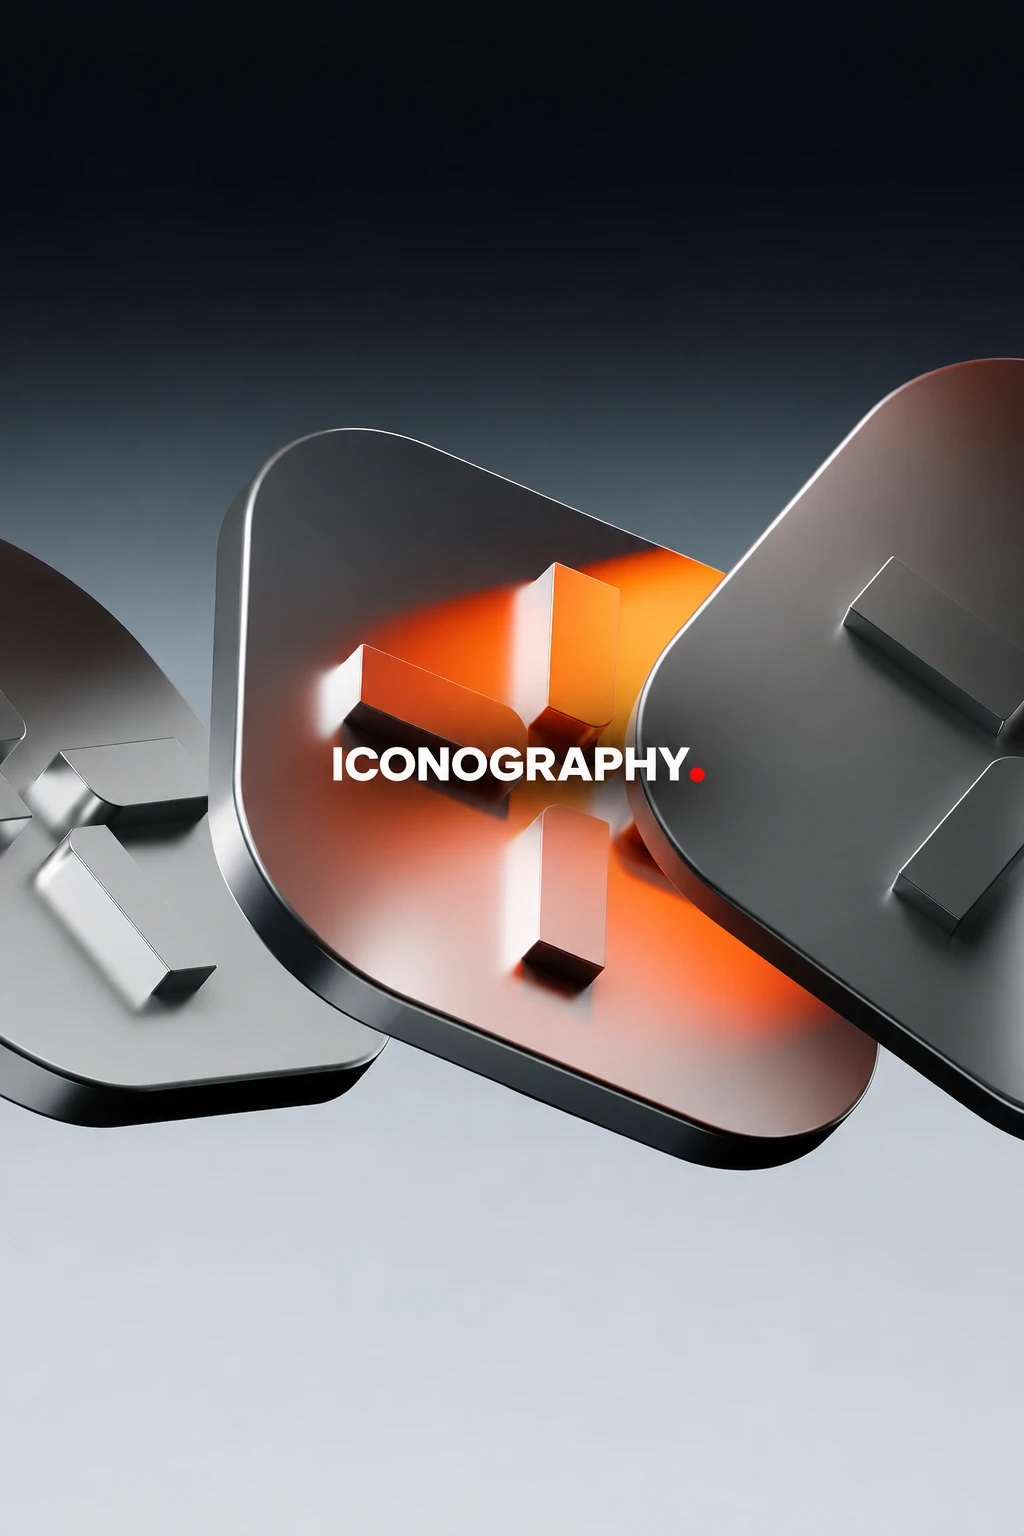
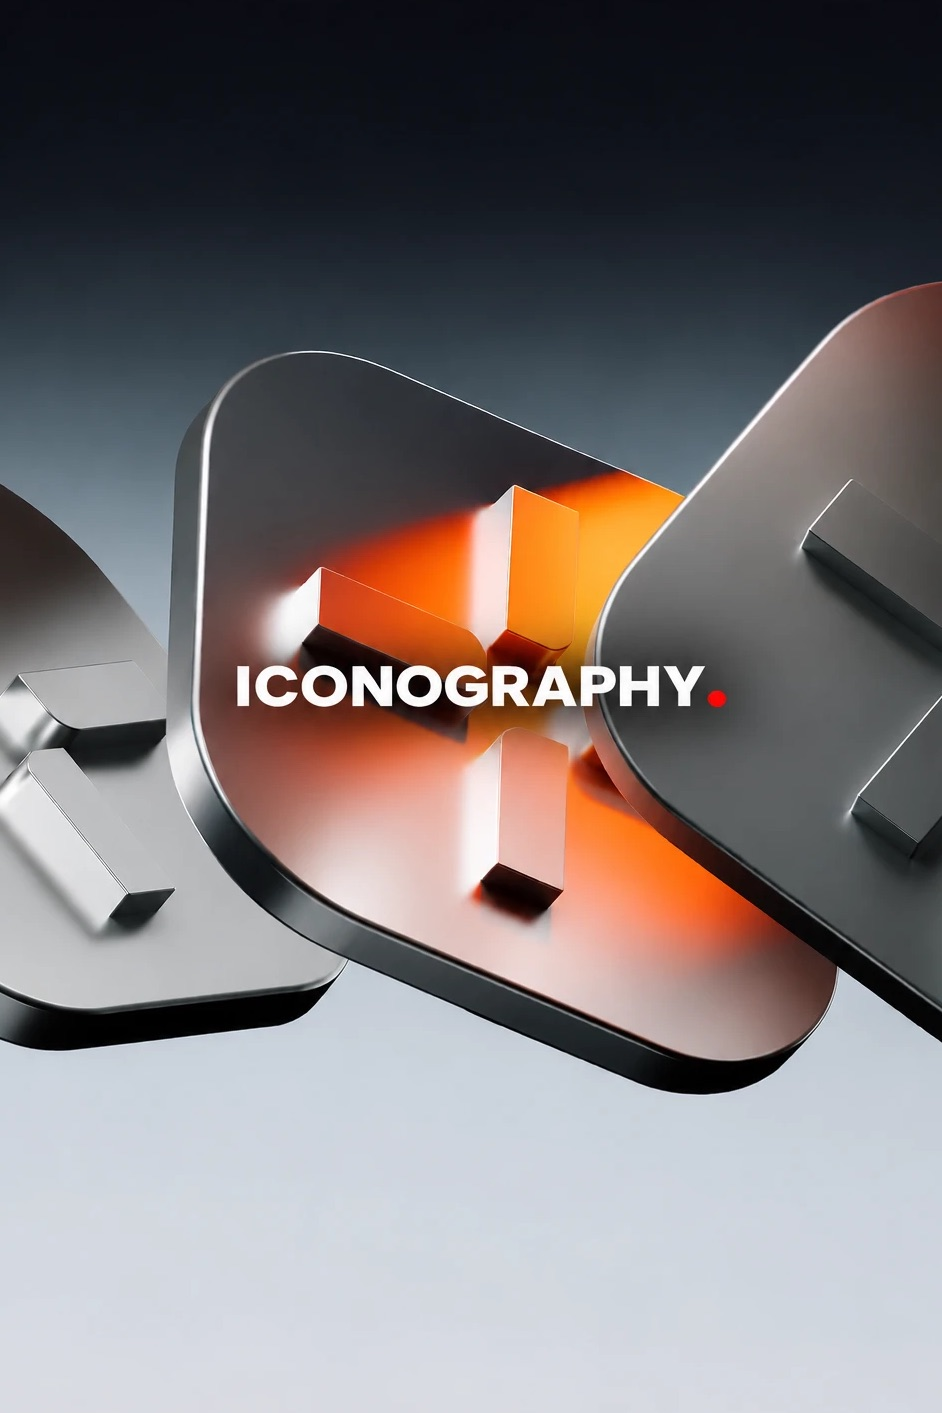
Cat page loader, deeper image parallax, rounded project thumbnails, Iconography image tweaks

Changed region(s): [[0.0, 0.1868, 1.0, 0.7785]]

diff --git a/404.html b/404.html
@@ -13,13 +13,42 @@
   <link rel="preconnect" href="https://fonts.googleapis.com">
   <link rel="preconnect" href="https://fonts.gstatic.com" crossorigin>
   <link rel="stylesheet" href="https://fonts.googleapis.com/css2?family=Inter+Tight:wght@400;500;700&display=swap">
-  <link rel="stylesheet" href="css/style.css?v=65">
-  <link rel="stylesheet" href="css/pages.css?v=65">
-  <link rel="stylesheet" href="css/designs.css?v=65">
+  <link rel="stylesheet" href="css/style.css?v=78">
+  <link rel="stylesheet" href="css/pages.css?v=78">
+  <link rel="stylesheet" href="css/designs.css?v=78">
   <script>document.documentElement.classList.add('js');</script>
-  <script type="module" src="js/main.js?v=65"></script>
+  <script type="module" src="js/main.js?v=78"></script>
 </head>
 <body>
+  <!-- Page loader: the cat on its bar while the page loads; the bar fills lime, then it fades away -->
+  <div class="loader" id="loader" aria-hidden="true">
+    <div class="loader__art">
+      <img src="assets/loader/cat.gif" alt="" width="800" height="600">
+      <span class="loader__bar"><i id="loader-fill"></i></span>
+    </div>
+  </div>
+  <style>
+    .loader { position: fixed; inset: 0; z-index: 10000; display: grid; place-items: center; background: #fff; transition: opacity .6s ease, visibility .6s; }
+    .loader.is-done { opacity: 0; visibility: hidden; }
+    .loader__art { position: relative; width: min(300px, 72vw); aspect-ratio: 4 / 3; }
+    .loader__art img { display: block; width: 100%; height: 100%; }
+    /* sits over the gif's grey bar; multiply keeps the cat's dark paw and tail on top */
+    .loader__bar { position: absolute; left: 19.75%; top: 57%; width: 61.75%; height: 10.67%; border-radius: 999px; overflow: hidden; mix-blend-mode: multiply; }
+    .loader__bar i { display: block; height: 100%; width: 0; background: #ccf400; border-radius: inherit; transition: width .35s ease; }
+  </style>
+  <script>
+    (function () {
+      var fill = document.getElementById('loader-fill'), p = 0, done = false, t0 = Date.now();
+      var tick = setInterval(function () { if (!done) { p += (90 - p) * 0.06; fill.style.width = p + '%'; } }, 60);
+      window.addEventListener('load', function () {
+        setTimeout(function () {
+          done = true; clearInterval(tick); fill.style.width = '100%';
+          setTimeout(function () { document.getElementById('loader').classList.add('is-done'); }, 450);
+          setTimeout(function () { var l = document.getElementById('loader'); l && l.remove(); }, 1200);
+        }, Math.max(0, 1200 - (Date.now() - t0)));
+      });
+    })();
+  </script>
   <a class="skip" href="#about">Skip to introduction</a>
 
   <!-- The logo leads home from any page -->

diff --git a/index.html b/index.html
@@ -18,13 +18,42 @@
   <link rel="preconnect" href="https://fonts.googleapis.com">
   <link rel="preconnect" href="https://fonts.gstatic.com" crossorigin>
   <link rel="stylesheet" href="https://fonts.googleapis.com/css2?family=Inter+Tight:wght@400;500;700&display=swap">
-  <link rel="stylesheet" href="css/style.css?v=65">
-  <link rel="stylesheet" href="css/pages.css?v=65">
-  <link rel="stylesheet" href="css/designs.css?v=65">
+  <link rel="stylesheet" href="css/style.css?v=78">
+  <link rel="stylesheet" href="css/pages.css?v=78">
+  <link rel="stylesheet" href="css/designs.css?v=78">
   <script>document.documentElement.classList.add('js');</script>
-  <script type="module" src="js/main.js?v=65"></script>
+  <script type="module" src="js/main.js?v=78"></script>
 </head>
 <body>
+  <!-- Page loader: the cat on its bar while the page loads; the bar fills lime, then it fades away -->
+  <div class="loader" id="loader" aria-hidden="true">
+    <div class="loader__art">
+      <img src="assets/loader/cat.gif" alt="" width="800" height="600">
+      <span class="loader__bar"><i id="loader-fill"></i></span>
+    </div>
+  </div>
+  <style>
+    .loader { position: fixed; inset: 0; z-index: 10000; display: grid; place-items: center; background: #fff; transition: opacity .6s ease, visibility .6s; }
+    .loader.is-done { opacity: 0; visibility: hidden; }
+    .loader__art { position: relative; width: min(300px, 72vw); aspect-ratio: 4 / 3; }
+    .loader__art img { display: block; width: 100%; height: 100%; }
+    /* sits over the gif's grey bar; multiply keeps the cat's dark paw and tail on top */
+    .loader__bar { position: absolute; left: 19.75%; top: 57%; width: 61.75%; height: 10.67%; border-radius: 999px; overflow: hidden; mix-blend-mode: multiply; }
+    .loader__bar i { display: block; height: 100%; width: 0; background: #ccf400; border-radius: inherit; transition: width .35s ease; }
+  </style>
+  <script>
+    (function () {
+      var fill = document.getElementById('loader-fill'), p = 0, done = false, t0 = Date.now();
+      var tick = setInterval(function () { if (!done) { p += (90 - p) * 0.06; fill.style.width = p + '%'; } }, 60);
+      window.addEventListener('load', function () {
+        setTimeout(function () {
+          done = true; clearInterval(tick); fill.style.width = '100%';
+          setTimeout(function () { document.getElementById('loader').classList.add('is-done'); }, 450);
+          setTimeout(function () { var l = document.getElementById('loader'); l && l.remove(); }, 1200);
+        }, Math.max(0, 1200 - (Date.now() - t0)));
+      });
+    })();
+  </script>
   <a class="skip" href="#about">Skip to introduction</a>
 
   <!-- The logo leads home from any page -->

diff --git a/js/main.js b/js/main.js
@@ -423,8 +423,10 @@ function setupStrip() {
         it.node.style.setProperty('--f', f.toFixed(4));
       }
       // Gentle in-frame parallax: images slide slightly against the drift
-      const px = `${(((center - vw / 2) / vw) * -4).toFixed(2)}%`;
-      it.img.style.setProperty('--px', px);
+      const d = (center - vw / 2) / vw;
+      const px = `${(d * -4).toFixed(2)}%`;
+      // Pictures drift further than videos, for a slower, deeper parallax (kept inside their 1.14 zoom)
+      it.img.style.setProperty('--px', `${Math.max(-6, Math.min(6, d * -10)).toFixed(2)}%`);
       it.video?.style.setProperty('--px', px);
     }
   };

diff --git a/js/surface.js b/js/surface.js
@@ -366,8 +366,8 @@ export function createSurface({ canvas, tileSpeed, onFail }) {
     const ox = (w - dw) * 0.5, oy = (box - dh) * 0.35;
     const shift = (parseFloat(img.style.getPropertyValue('--px')) || 0) / 100 * w;
     const toUv = (lx, ly) => {
-      const px = w / 2 + (lx - w / 2 - shift) / 1.1;
-      const py = box / 2 + (ly - box / 2) / 1.1;
+      const px = w / 2 + (lx - w / 2 - shift) / 1.14;
+      const py = box / 2 + (ly - box / 2) / 1.14;
       return [(px - ox) / dw, (py - oy) / dh];
     };
     const [u0, v0] = toUv(0, 0);

diff --git a/css/pages.css b/css/pages.css
@@ -211,7 +211,7 @@
   padding: 0 var(--gutter);
 }
 .thumb { display: block; color: inherit; text-decoration: none; }
-.thumb__media { display: block; aspect-ratio: 4 / 3; overflow: hidden; background: var(--cream-2); }
+.thumb__media { display: block; aspect-ratio: 4 / 3; overflow: hidden; background: var(--cream-2); border-radius: 14px; }
 .thumb__media img { height: 100%; min-height: 0; object-fit: cover; transition: transform 1.1s var(--ease); }
 .thumb:hover .thumb__media img { transform: scale(1.04); }
 .thumb__title {

diff --git a/js/work/video.js b/js/work/video.js
@@ -11,7 +11,7 @@ export default {
   name: 'Video',
   intro: '[A line about your video work.]',
   cover: { src: 'assets/work/video/tile-poster.jpg', alt: 'Video: a still from the showreel',
-    video: 'assets/work/video/tile.mp4', videoPoster: 'assets/work/video/tile-poster.jpg' }, // the homepage tile plays this video
+    video: 'assets/work/video/tile.mp4', videoPoster: 'assets/work/video/tile-poster.jpg' } , // the homepage tile plays this video
 
   projects: [
     placeholderProject(16),

diff --git a/css/style.css b/css/style.css
@@ -171,7 +171,7 @@ div.card { cursor: inherit; }
 .card__media img {
   width: 100%; height: 100%;
   object-fit: cover; object-position: 50% 35%;
-  transform: translate3d(var(--px, 0), 0, 0) scale(1.1);
+  transform: translate3d(var(--px, 0), 0, 0) scale(1.14);
   pointer-events: none;
 }
 /* A tile that shows its picture whole (a poster): fitted inside the visible part, on its own colour */
